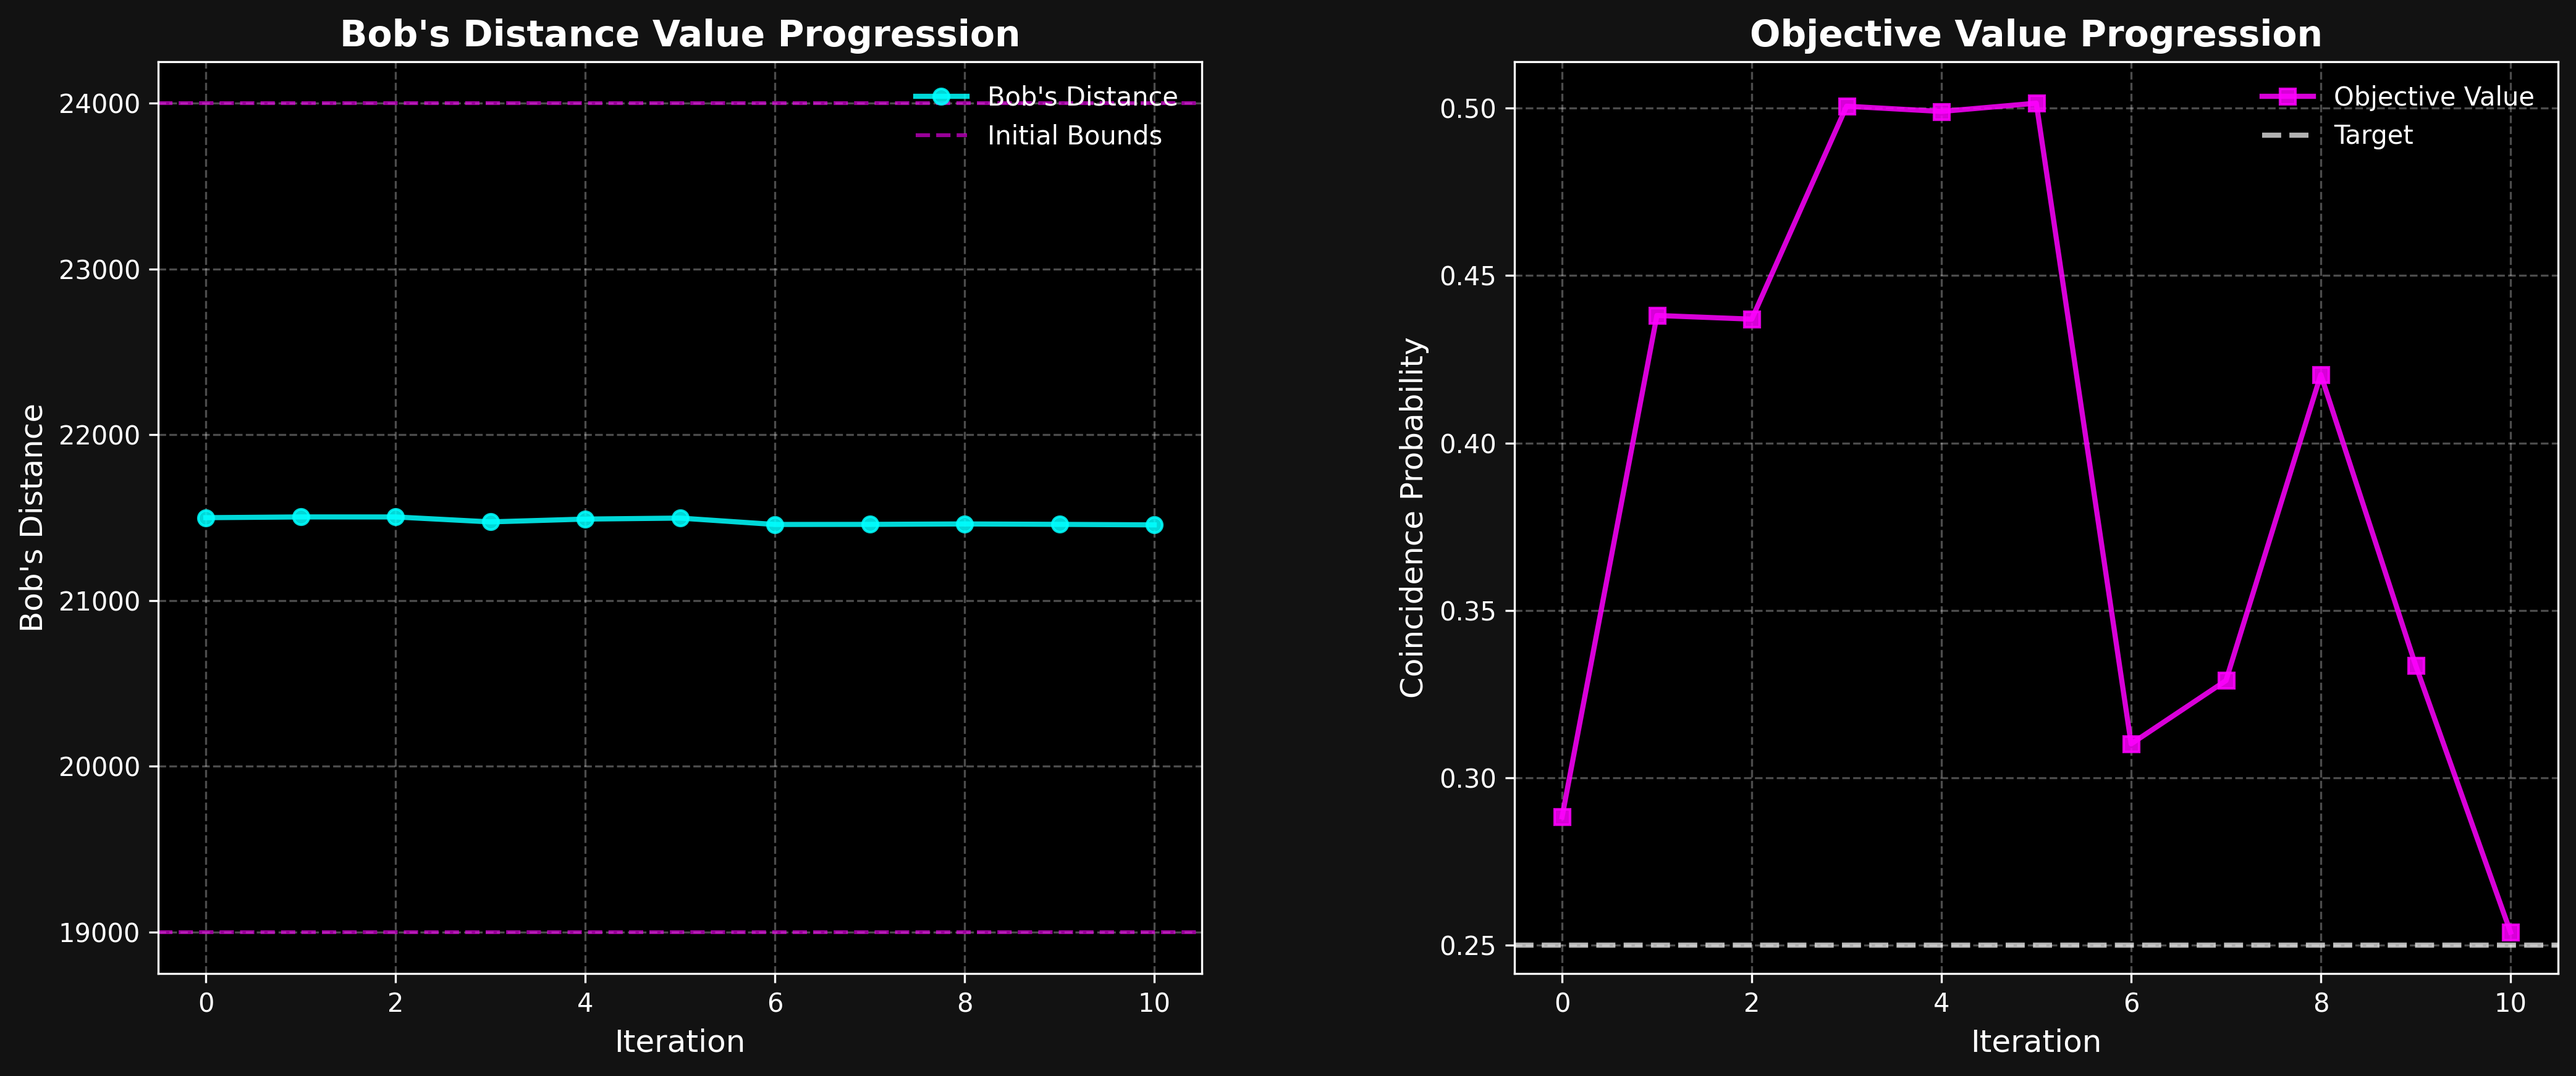
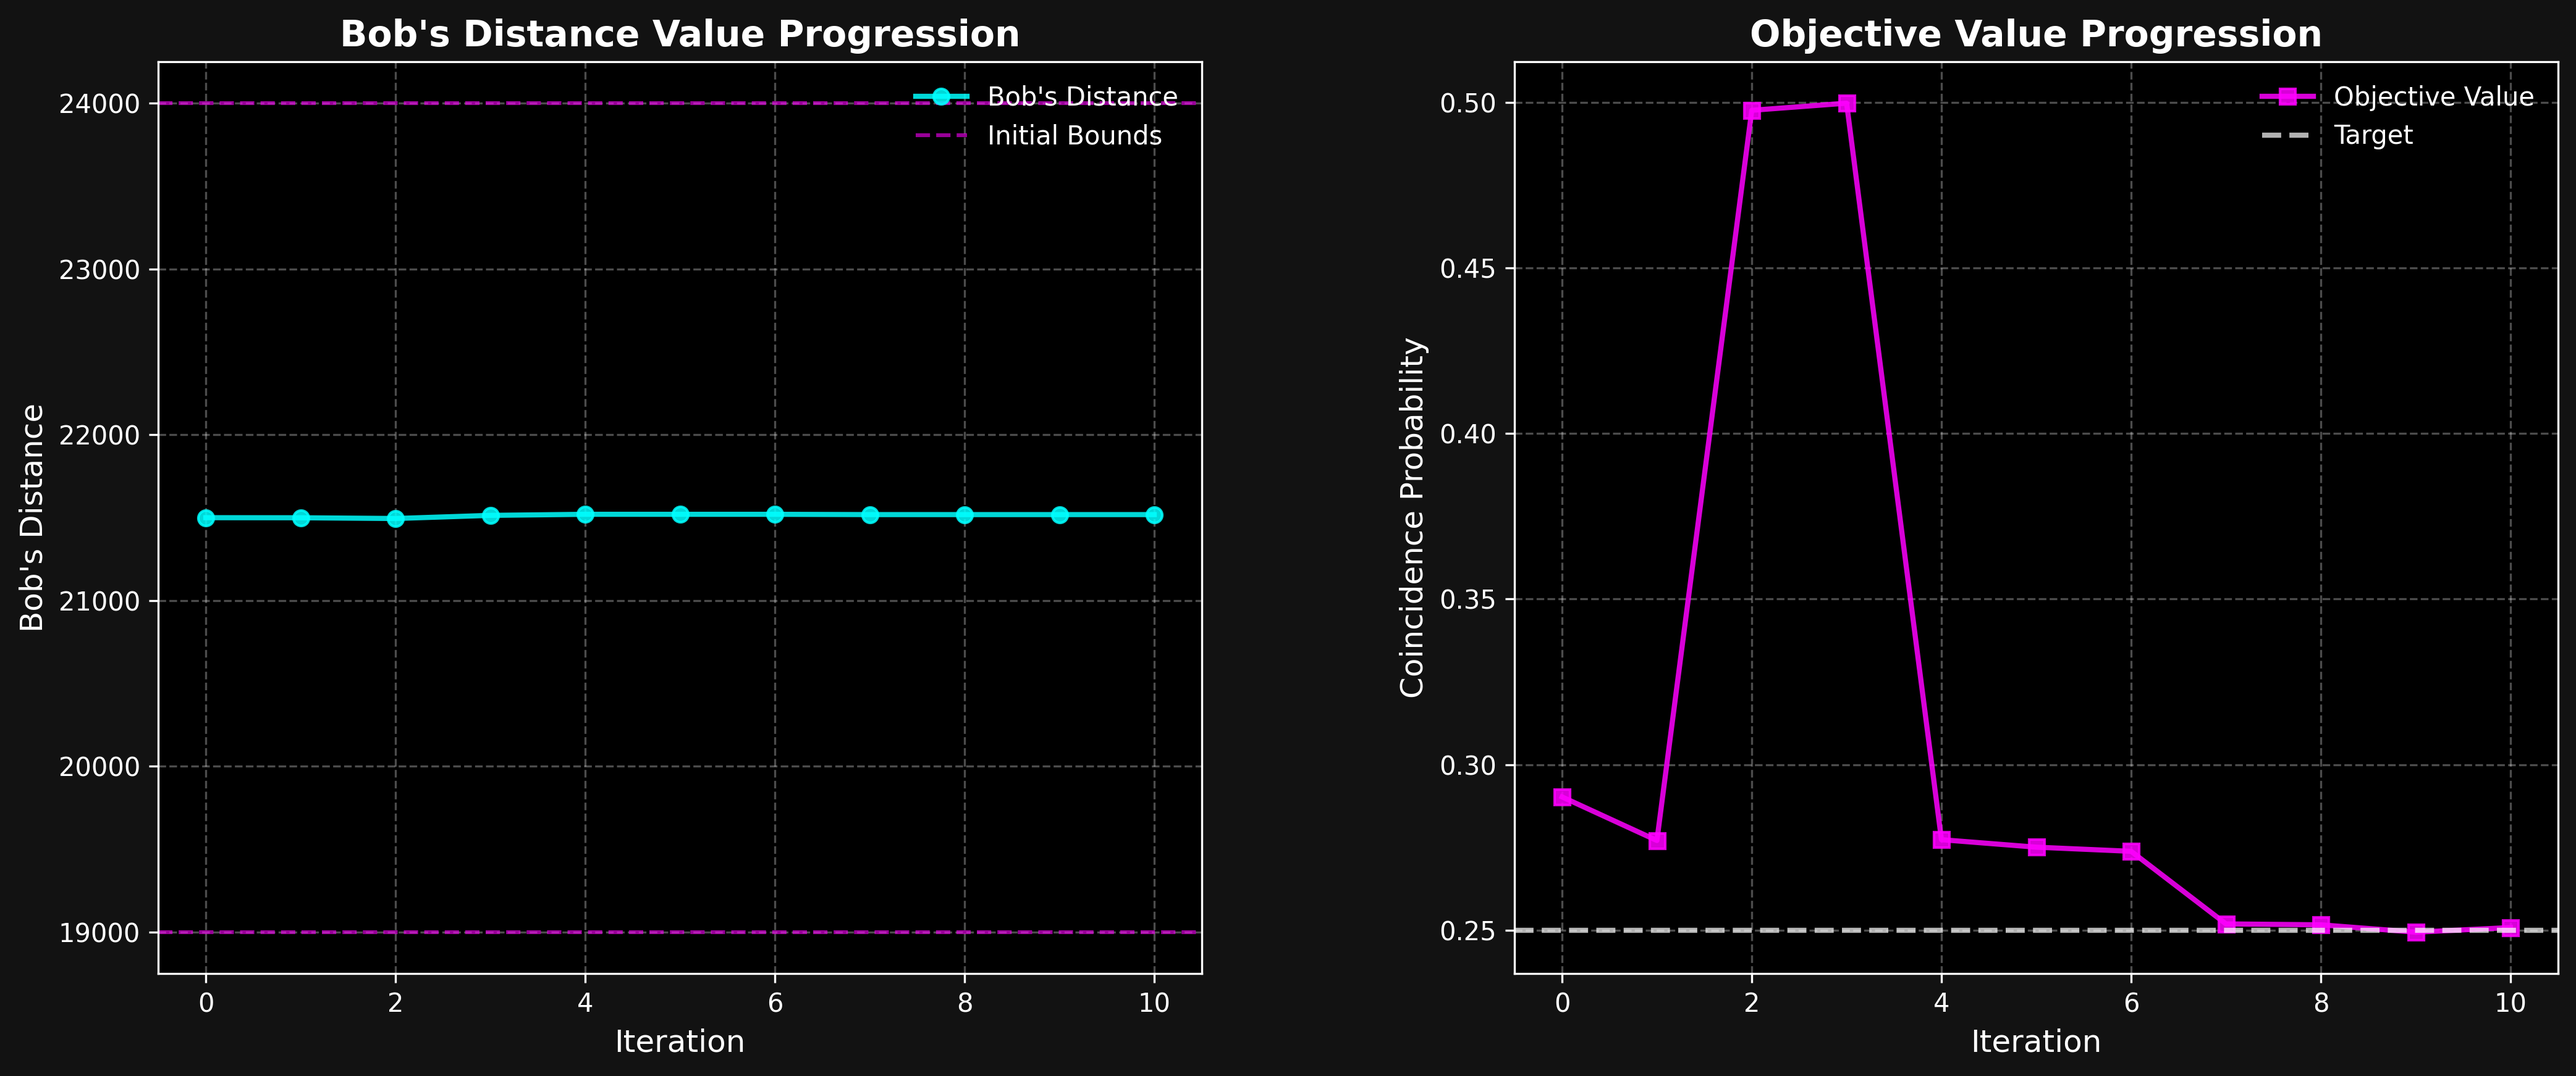
Added a decaying learning rate to the GradientOptimizer. Removed old plotting code from visualization.py

diff --git a/clock_sync_sim/utils/optimization.py b/clock_sync_sim/utils/optimization.py
@@ -2,8 +2,8 @@ import numpy as np
 from typing import Dict, Any, Tuple, List
 from ..config.settings import SIGMA, C_FIBER
 
-class GradientDescentOptimizer:
-    """Gradient Descent optimizer to find the parameter that minimizes the squared error to the target probability."""
+"""class GradientDescentOptimizer:
+    #Gradient Descent optimizer to find the parameter that minimizes the squared error to the target probability.
     def __init__(self, target_prob: float, objective_fn: callable, bounds: Tuple[float, float], config: Dict[str, Any]):
         self.target = target_prob
         self.objective = objective_fn
@@ -46,7 +46,74 @@ class GradientDescentOptimizer:
         
         fx = self.objective(x)
         history.append((x, fx))
+        return x, history"""
+
+
+class GradientDescentOptimizer:
+    """Gradient Descent optimizer with decaying learning rate for minimizing squared error to the target probability."""
+    
+    def __init__(self, target_prob: float, objective_fn: callable, bounds: Tuple[float, float], config: Dict[str, Any]):
+        self.target = target_prob
+        self.objective = objective_fn
+        self.bounds = bounds
+        self.config = config
+        self.initial_learning_rate = config.get('learning_rate', 0.5)  # Initial learning rate
+        self.tolerance = config.get('tolerance', 1e-5)
+        self.max_iter = config.get('max_iterations', 10)
+        self.h = config.get('gradient_step_size', 1e-5)
+        self.decay_rate = config.get('decay_rate', 0.1)  # Controls learning rate decay
+        self.history = []
+
+    def _compute_learning_rate(self, iteration: int, fx: float) -> float:
+        """Compute a decaying learning rate that slows down as fx approaches the target."""
+        decay_factor = np.exp(-self.decay_rate * iteration)  # Exponential decay
+        proximity_factor = 1 / (1 + abs(fx - self.target))  # Slower updates near the target
+        return self.initial_learning_rate * decay_factor * proximity_factor
+
+    def optimize(self) -> Tuple[float, List[Tuple[float, float]]]:
+        """Perform optimization with gradient descent and decaying learning rate."""
+        history = []
+        x = np.mean(self.bounds)
+        iterations = 0
+        
+        for iter_num in range(self.max_iter):
+            iterations += 1
+            fx = self.objective(x)
+            print(f"Iteration {iterations}: x = {x:.6f}, fx = {fx:.6f}")
+
+            history.append((x, fx))
+            
+            # Compute numerical gradient
+            x_plus = np.clip(x + self.h, *self.bounds)
+            x_minus = np.clip(x - self.h, *self.bounds)
+            f_plus = self.objective(x_plus)
+            f_minus = self.objective(x_minus)
+            
+            gradient = (f_plus - f_minus) / (2 * self.h)
+            if abs(gradient) < 1e-5:
+                print("Flat gradient detected. Adjusting step size.")
+                delta = 1e-3  # Small step to move out of flat regions
+            else:
+                # Compute decaying learning rate
+                learning_rate = self._compute_learning_rate(iter_num, fx)
+                delta = 10 * learning_rate * (fx - self.target) * gradient
+            
+            # Update parameter
+            x_new = np.clip(x - delta, *self.bounds)
+            print(f"Update: Δx = {(x-x_new):.6f}, Learning rate: {learning_rate:.6f}")
+            
+            # Check convergence
+            if abs(x_new - x) < self.tolerance:
+                x = x_new
+                break
+            
+            x = x_new
+        
+        # Final function evaluation
+        fx = self.objective(x)
+        history.append((x, fx))
         return x, history
+    
 
 class GoldenSectionOptimizer:
     """Golden Section Search optimizer to find the extremum (min/max) of the objective function."""

diff --git a/clock_sync_sim/utils/visualization.py b/clock_sync_sim/utils/visualization.py
@@ -43,56 +43,6 @@ def plot_results(history, coins):
     plt.grid(True)
 
 
-"""
-def plot_optimization_history(history: List[Tuple[float, float]], 
-                             target: float = None,
-                             param_name: str = "Parameter",
-                             bounds: Tuple[float, float] = None,
-                             save_path: str = None):
-    
-    Visualize the optimization process from optimizer history
-    
-    Args:
-        history: List of (parameter_value, objective_value) tuples
-        target: Target probability value to show as reference line
-        param_name: Name of parameter being optimized for labels
-        bounds: Initial search bounds for visualization
-        save_path: Optional path to save the figure (shows plot if None)
-    
-    plt.figure(figsize=(12, 6))
-    
-    # Extract values from history
-    params, objectives = zip(*history)
-    iterations = np.arange(len(history))
-    
-    # Parameter value progression
-    plt.subplot(1, 2, 1)
-    plt.plot(iterations, params, 'b-o', lw=1.5)
-    plt.title(f"{param_name} Value Progression")
-    plt.xlabel("Iteration")
-    plt.ylabel(param_name)
-    if bounds:
-        plt.axhline(bounds[0], color='r', linestyle='--', alpha=0.5, label='Initial Bounds')
-        plt.axhline(bounds[1], color='r', linestyle='--', alpha=0.5)
-    
-    # Objective value progression
-    plt.subplot(1, 2, 2)
-    plt.plot(iterations, objectives, 'g-s', lw=1.5, label='Objective Value')
-    if target is not None:
-        plt.axhline(target, color='k', linestyle='--', label='Target')
-    plt.title("Objective Value Progression")
-    plt.xlabel("Iteration")
-    plt.ylabel("Coincidence Probability")
-    plt.legend()
-    
-    plt.tight_layout()
-    
-    if save_path:
-        plt.savefig(save_path, dpi=300, bbox_inches='tight')
-    else:
-        plt.show()
-"""
-
 def plot_optimization_history(history: List[Tuple[float, float]], 
                              target: float = None,
                              param_name: str = "Parameter",
